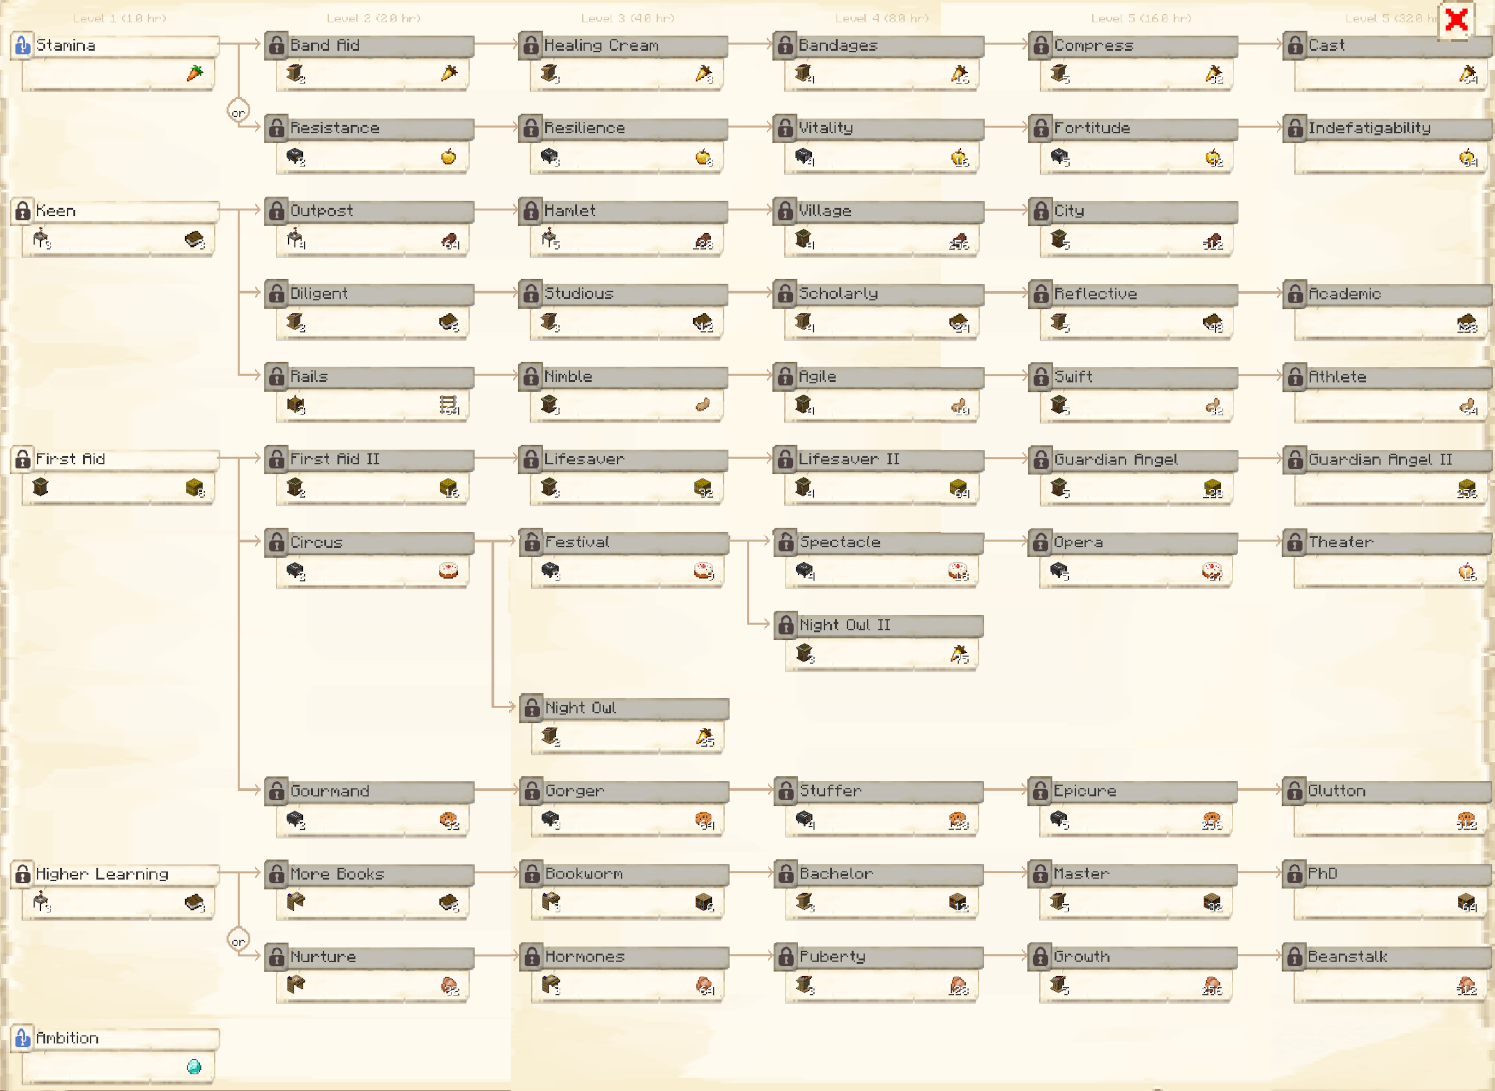
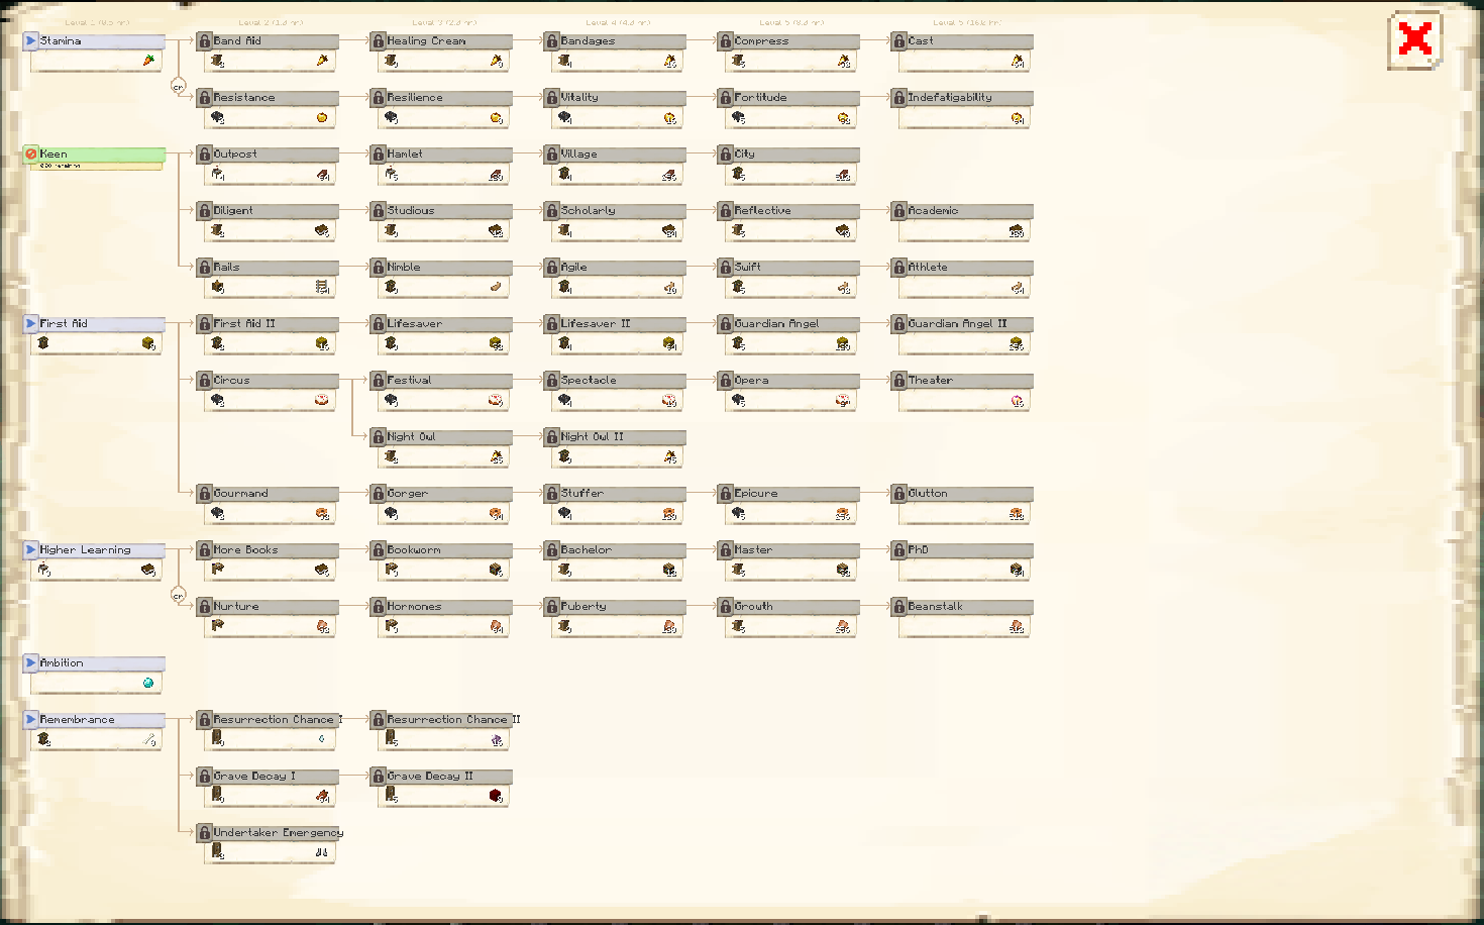
Graveyard stuff (#618)
* Progress toward #613, not finished

Also adds a note about the research on the mystical site page

* More grave-related images

* More graveyard stuff. Finished the research and graveyard pages

still need to do undertaker and grave pages

* Finish undertaker page

* Finish graveyard stuff

* Improve graveyard page a bit

*wow* I was tired if I thought that was reasonable XD

* Improve mystical site

* Update jobs and skills image

* Adjust to review

diff --git a/source/misc/recipes.md b/source/misc/recipes.md
@@ -69,21 +69,22 @@ The [Barracks Tower](../../source/buildings/barrackstower) is not listed here be
 | [Combat Academy](../../source/buildings/combatacademy) | **Any** Planks + Build Tool + 3 Iron Swords      | <recipe>combatacademy</recipe> |
 | [Composter's Hut](../../source/buildings/composter) | **Any** Planks + Build Tool + Barrel                | <recipe>composter</recipe>     |
 | [Concrete Mixer's Hut](../../source/buildings/concretemixer) | **Any** Planks + Build Tool + White Concrete Powder | <recipe>concretemixer</recipe> |
-| [Cowhand's Hut](../../source/buildings/cowhand)    | **Any** Planks + Build Tool + Raw Beef               | <recipe>cowhand</recipe>        |
+| [Cowhand's Hut](../../source/buildings/cowhand)    | **Any** Planks + Build Tool + Raw Beef               | <recipe>cowhand</recipe>       |
 | [Crusher's Hut](../../source/buildings/crusher)    | **Any** Planks + Build Tool + 2 Cobblestone + 1 Iron Ingot | <recipe>crusher</recipe> |
 | [Courier's Hut](../../source/buildings/courier)    | **Any** Planks + Build Tool + Leather Boots          | <recipe>courier</recipe>       |
 | [Dyer's Hut](../../source/buildings/dyer)          | **Any** Planks + Build Tool + **Any** Dye            | <recipe>dyer</recipe>          |
 | [Enchanter's Tower](../../source/buildings/enchantertower) | **Any** Planks + Build Tool + Enchanting Table | <recipe>enchanter</recipe>   |
 | [Farm](../../source/buildings/farm&field)          | **Any** Planks + Build Tool + Wooden Hoe             | <recipe>farm</recipe>          |
-| [Fisher's Hut](../../source/buildings/fisher)      | **Any** Planks + Build Tool + Fishing Rod            | <recipe>fisher</recipe>     |
+| [Fisher's Hut](../../source/buildings/fisher)      | **Any** Planks + Build Tool + Fishing Rod            | <recipe>fisher</recipe>        |
 | [Fletcher's Hut](../../source/buildings/fletcher)  | **Any** Planks + Build Tool + String                 | <recipe>fletcher</recipe>      |
 | [Flower Shop](../../source/buildings/flowershop)   | **Any** Planks + Build Tool + Poppy                  | <recipe>flowershop</recipe>    |
 | [Glassblower's Hut](../../source/buildings/glassblower) | **Any** Planks + Build Tool + Glass Block       | <recipe>glassblower</recipe>   |
+| [Graveyard](../../source/buildings/graveyard)      | Stone + Build Tool + Bone                            | <recipe>graveyard</recipe>     |
 | [Guard Tower](../../source/buildings/guardtower)   | **Any** Planks + Build Tool + Bow                    | <recipe>guardtower</recipe>    |
 | [Hospital](../../source/buildings/hospital)        | **Any** Planks + Build Tool + Carrot                 | <recipe>hospital</recipe>      |
 | [House](../../source/buildings/house)              | **Any** Planks + Build Tool + Torch                  | <recipe>house</recipe>         |
 | [Library](../../source/buildings/library)          | **Any** Planks + Build Tool + Bookshelf              | <recipe>library</recipe>       |
-| [Forester's Hut](../../source/buildings/forester)  | **Any** Planks + Build Tool + Wooden Axe             | <recipe>forester</recipe>    |
+| [Forester's Hut](../../source/buildings/forester)  | **Any** Planks + Build Tool + Wooden Axe             | <recipe>forester</recipe>      |
 | [Mechanic's Hut](../../source/buildings/mechanic)  | **Any** Planks + Build Tool + Redstone Block         | <recipe>mechanic</recipe>      |
 | [Mine](../../source/buildings/mine)                | **Any** Planks + Build Tool + Wooden Pickaxe         | <recipe>mine</recipe>          |
 | [Mystical Site](../../source/buildings/mysticalsite) | **Any** Planks + Build Tool + Diamond              | <recipe>mysticalsite</recipe>  |
@@ -97,7 +98,7 @@ The [Barracks Tower](../../source/buildings/barrackstower) is not listed here be
 | [Smeltery](../../source/buildings/smeltery)        | **Any** Planks + Build Tool + Iron Ingot             | <recipe>smeltery</recipe>      |
 | [Stonemason's Hut](../../source/buildings/stonemason) | **Any** Planks + Build Tool + 3 Stone Bricks      | <recipe>stonemason</recipe>    |
 | [Stone Smeltery](../../source/buildings/stonesmeltery) | **Any** Planks + Build Tool + 1 Furnace + 2 Stone Bricks | <recipe>stonesmeltery</recipe> |
-| [Swineherd's Hut](../../source/buildings/swineherd) | **Any** Planks + Build Tool + Raw Porkchop          | <recipe>swineherd</recipe>   |
+| [Swineherd's Hut](../../source/buildings/swineherd) | **Any** Planks + Build Tool + Raw Porkchop          | <recipe>swineherd</recipe>     |
 | [Tavern](../../source/buildings/tavern)            | **Any** Planks + Build Tool + Decorative Barrel      | <recipe>tavern</recipe>        |
 | [Town Hall](../../source/buildings/townhall)       | **Any** Planks + 2 Build Tools                       | <recipe>townhall</recipe>      |
 | [University](../../source/buildings/university)    | **Any** Planks + Build Tool + Books                  | <recipe>university</recipe>    |

diff --git a/source/systems/research.md b/source/systems/research.md
@@ -144,6 +144,7 @@ You can only have one sixth column research unlocked at a time!
 | First Aid | [Town Hall](../../source/buildings/townhall) at least level 1; 8 hay bales | Increases colonists' health by 1 heart |
 | Higher Learning | House at least level 3; 3 books | Unlocks the [School](../../source/buildings/school) |
 | Ambition | 1 Diamond | Unlocks the [Mystical Site](../../source/buildings/mysticalsite) |
+| Remembrance | [Town Hall](../../source/buildings/townhall) at least level 2; 8 bones | Unlocks the [Graveyard](../../source/buildings/graveyard) |
 
 #### Second Column
 
@@ -159,6 +160,9 @@ You can only have one sixth column research unlocked at a time!
 | Gourmand | First Aid | Restaurant at least level 2; 32 cookies | Food is 10% more effective at restoring colonists' saturation |
 | More Books | Higher Learning | School at least level 1; 6 books | Increases the effectiveness of [Teachers](../../source/workers/teacher) by 5% |
 | Nurture | Higher Learning | School at least level 1; 32 cooked chicken | Decreases the time it takes children to grow up by 5% |
+| Resurrection Chance I | Remembrance | Graveyard at least level 3; 1 ghast tear | Increases [Undertakers'](../../source/workers/undertaker) chances of resurrecting citizens by 1% |
+| Grave Decay I | Remembrance | Graveyard at least level 3; 64 rotten flesh | Graves take 2 more minutes before decaying |
+| Undertaker Emergency | Remembrance | Graveyard at least level 2; 1 set of iron boots | Undertakers run toward graves instead of walking |
 
 #### Third Column
 
@@ -175,6 +179,8 @@ You can only have one sixth column research unlocked at a time!
 | Gorger | Gourmand | Restaurant at least level 3; 64 cookies | Food is 25% more effective at restoring colonists' saturation |
 | Bookworm | More Books | School at least level 3; 6 bookshelves | Increases the effectiveness of Teachers by 10% |
 | Hormones | Nurture | School at least level 3; 64 cooked chicken | Decreases the time it takes children to grow up by 10% |
+| Resurrection Chance II | Resurrection Chance I | Graveyard level 5; 16 chorus fruit | Increases Undertakers' chances of resurrecting citizens by 2% |
+| Grave Decay II | Grave Decay I | Graveyard level 5; 8 nether wart blocks | Graves take 3 more minutes before decaying |
 
 #### Fourth Column
 

diff --git a/source/workers/undertaker.md b/source/workers/undertaker.md
@@ -1,0 +1,42 @@
+---
+title: Undertaker
+layout: default
+---
+# Undertaker
+
+<div class="infobox box text-center">
+<img src="../../assets/images/workers/undertaker_m.png" alt="Undertaker Male" />&nbsp;&nbsp;&nbsp;<img src="../../assets/images/workers/undertaker_f.png" alt="Undertaker Female" />
+<hr />
+  <div class="row section-text text-left">
+    <div class="col">
+      <p><strong>Primary Trait:</strong></p>
+      <p><strong>Secondary Trait:</strong></p>
+      <p><strong>Building:</strong></p>
+    </div>
+    <div class="col">
+      <p class="traitp">Strength</p>
+      <p class="traits">Mana</p>
+      <p><a href="../buildings/graveyard">Graveyard</a></p>
+    </div>
+  </div>
+</div>
+
+The Undertaker deals with deceased citizens. When a citizen dies, a grave will spawn at the location of death.
+
+![Grave](../../assets/images/items/grave.png)
+
+After a short time, graves will decay and eventually disappear. There are [researches](../../source/systems/research) to increase this time.
+
+![Decayed Grave](../../assets/images/items/decayedgrave.png)
+
+The grave (decayed or not) will hold all the items the citizen had in their inventory at the time of death. The player can right-click the grave to open its inventory and retrieve the items. The Undertaker will walk (run if you've completed the relevant research) toward the grave and retrieve its inventory, then go back to the Graveyard.
+
+Once the Undertaker gets to the Graveyard, they will attempt to revive the deceased citizen. The chance for them to succeed can be increased by researches, the Undertaker's Mana skill, and the level of the Graveyard. The chance is capped at about 10%.
+
+If the citizen cannot be revived, the Undertaker will bury them in the Graveyard. Another grave will be placed with the citizen's name on it (this grave does not store items).
+
+If no citizens have died recently, the Undertaker will visit the [Mystical Site](../../source/buildings/mysticalsite), the [Enchanter's Tower](../../source/buildings/enchantertower), and citizens' homes. Doing so will increase their Mana level.
+
+The Undertaker is exempt from mourning so they can complete their job.
+
+The higher an Undertaker's Strength skill, the faster they can dig graves.

diff --git a/source/buildings/graveyard.md b/source/buildings/graveyard.md
@@ -1,0 +1,73 @@
+---
+title: Graveyard
+layout: default
+---
+# Graveyard
+
+<div class="infobox box text-center">
+    <img src="../../assets/images/buildings/graveyard.png" alt="Graveyard" />
+    <hr />
+    <div class="row section-text text-left">
+        <div class="col">
+        <p><strong>Worker:</strong></p>
+        </div>
+        <div class="col">
+        <p><a href="../workers/undertaker">Undertaker</a></p>
+        </div>
+    </div>
+    <hr />
+    <recipe>graveyard</recipe>
+</div>
+
+### Note: The Graveyard cannot be built until you have finished the [research](../../source/systems/research) in the [University](../../source/buildings/university).
+<br>
+
+The Graveyard is where the Undertaker will bury your deceased citizens.
+For more information, see the [Undertaker](../../source/workers/undertaker) page.
+
+The recommended maximum grave count per Graveyard level is below. This is **not mandatory**, and the actual amount will vary between styles.
+
+| Graveyard Level | Number of Graves |
+| --------------- | ---------------- |
+| 1 | 14 | 
+| 2 | 18 |
+| 3 | 27 |
+| 4 | 36 |
+| 5 | 50 |
+
+## Graveyard GUI
+
+When accessing the Graveyard's hut block by right-clicking on it, you will see a GUI with different options:
+
+<br>
+<div class="row">
+  <div class="col-sm-12 col-md">
+    <img src="../../assets/images/gui/graveyardgui1.png" class="img-fluid mx-auto" alt="Graveyard GUI 1">
+  </div>
+  <div class="col-sm-12 col-md">
+    <br>
+    <ul>
+      {% for item in site.data.gui.global %}
+        <li><strong>{{ item.button }}:</strong> {{ item.content }}</li>
+      {% endfor %}
+    </ul>
+  </div>
+</div>
+<br><br>
+This is page two of the Graveyard GUI. It has a list of the graves the Undertaker needs to recover.
+
+<br>
+<div class="row">
+  <div class="col-sm-12 col-md">
+    <img src="../../assets/images/gui/graveyardgui2.png" class="img-fluid mx-auto" alt="Graveyard GUI 2">
+  </div>
+</div>
+  <br><br>
+  This is page three of the Graveyard GUI. It has a list of currently-buried citizens.
+
+<br>
+<div class="row">
+  <div class="col-sm-12 col-md">
+    <img src="../../assets/images/gui/graveyardgui3.png" class="img-fluid mx-auto" alt="Graveyard GUI 3">
+  </div>
+</div>

diff --git a/source/tutorials/schematics.md b/source/tutorials/schematics.md
@@ -111,6 +111,7 @@ Here is a full list, up-to-date as of 20 January 2021, of the building names. Pl
 | fisherman1     | fisherman2     | fisherman3     | fisherman4     | fisherman5     |
 | florist1       | florist2       | florist3       | florist4       | florist5       |
 | glassblower1   | glassblower2   | glassblower3   | glassblower4   | glassblower5   |
+| graveyard1     | graveyard2     | graveyard3     | graveyard4     | graveyard5     |
 | guardtower1    | guardtower2    | guardtower3    | guardtower4    | guardtower5    |
 | hospital1      | hospital2      | hospital3      | hospital4      | hospital5      |
 | library1       | library2       | library3       | library4       | library5       |
@@ -159,6 +160,7 @@ So, for example, the path would be `structurize/schematics/wildwest/builder1` fo
 | [Dyer's Hut](../../source/buildings/dyer)               | 1 furnace                                                            |                     |
 | [Flower Shop](../../source/buildings/flowershop)        | 4 [compost blocks](../../source/items/compost) per level             |                     |
 | [Glassblower's Hut](../../source/buildings/glassblower) | 1 furnace per level                                                  |                     |
+| [Graveyard](../../source/buildings/graveyard)           | Named Graves, with the amount increasing per level | 14 named graves at level 1, 18 named graves at level 2, 27 named graves at level 3, 36 named graves at level 4, 50 named graves at level 5 |
 | [Guard Tower](../../source/buildings/guardtower)        |                                                                      | 1 bed per level     |
 | [Hospital](../../source/buildings/hospital)             | 1 bed per level                                                      |                     |
 | [House](../../source/buildings/house)                   | 1 bed per level                                                      |                     |

diff --git a/source/buildings/mysticalsite.md b/source/buildings/mysticalsite.md
@@ -19,9 +19,12 @@ layout: default
     <recipe>mysticalsite</recipe>
 </div>
 
+### Note: The Mystical Site cannot be built until you have finished the [research](../../source/systems/research) in the [University](../../source/buildings/university).
+<br>
+
 The Mystical Site is a simple building to increase a colony's overall [happiness](../../source/systems/happinessandsaturation) level. It has no worker, and increases colonists' happiness just by existing.
 
-**Note:** In the future, it will be expanded to have more uses.
+The [Undertaker](../../source/workers/undertaker) will visit the Mystical Site when there are no colonists to bury. Doing so will increase their Mana skill, and as such, their chance of resurrecting a killed citizen.
 
 ## Mystical Site GUI
 
